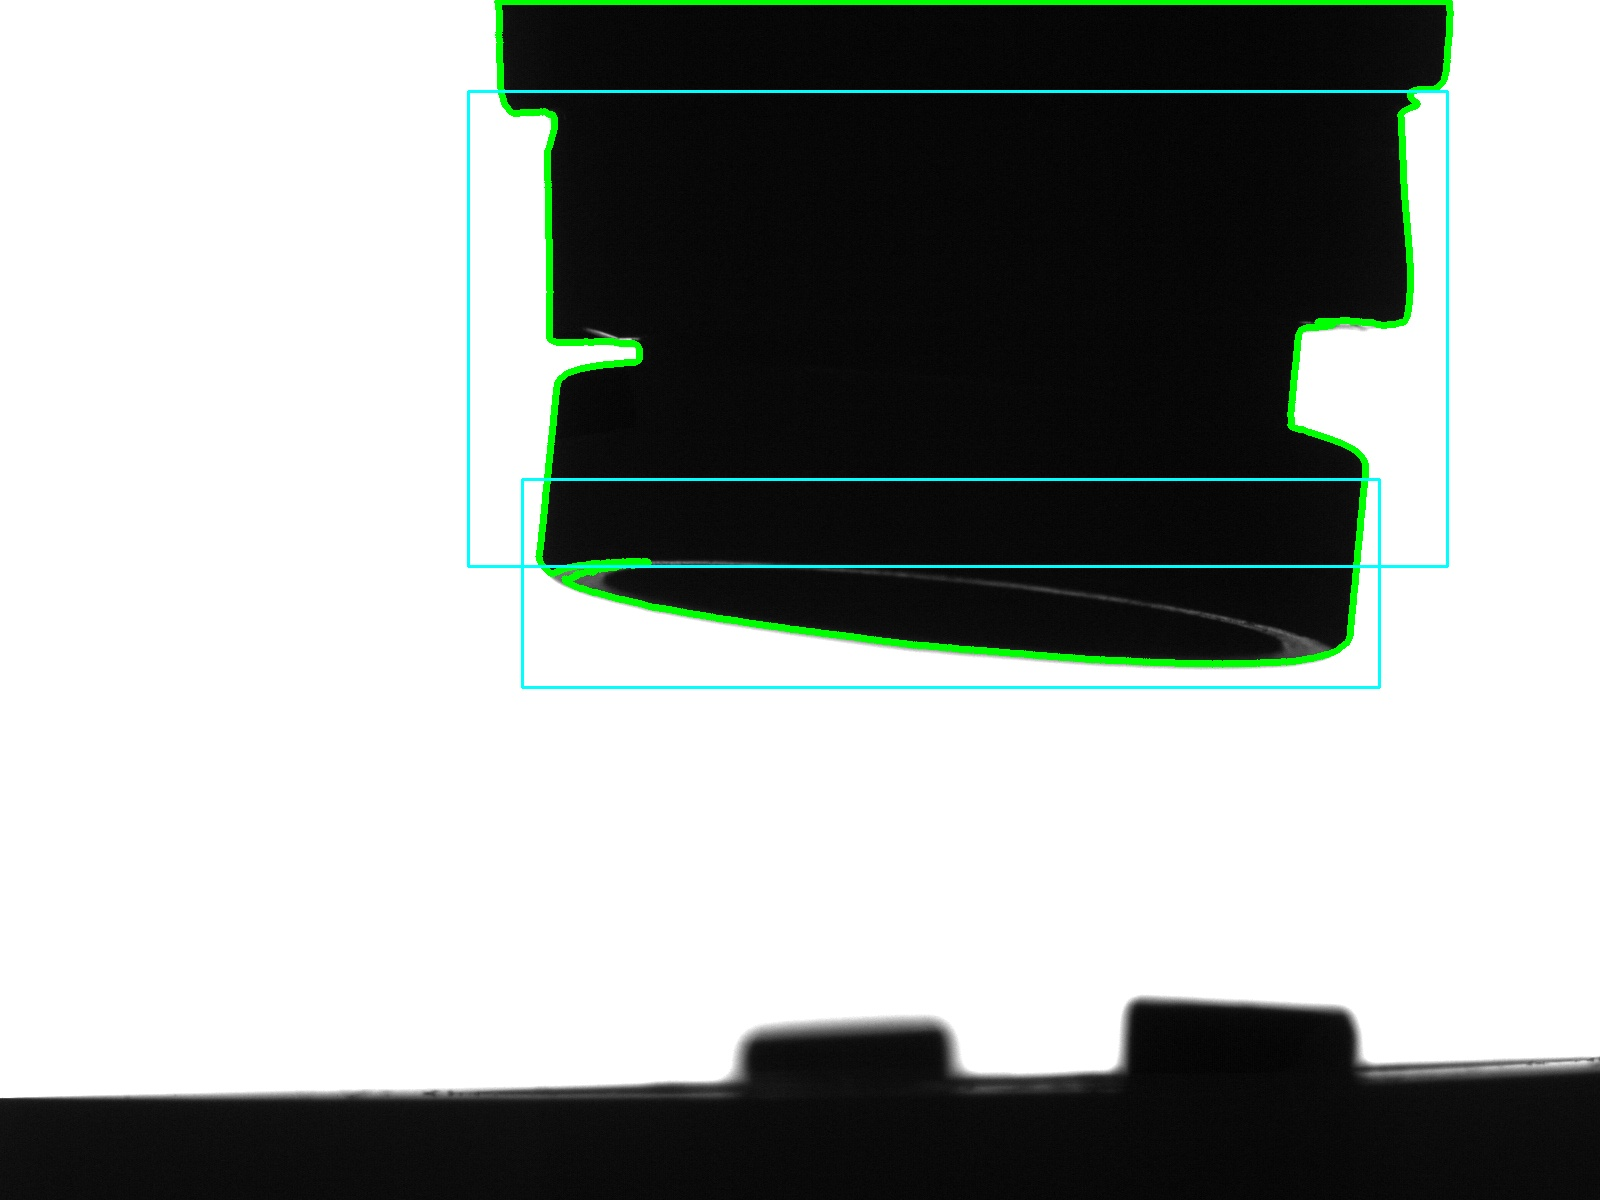
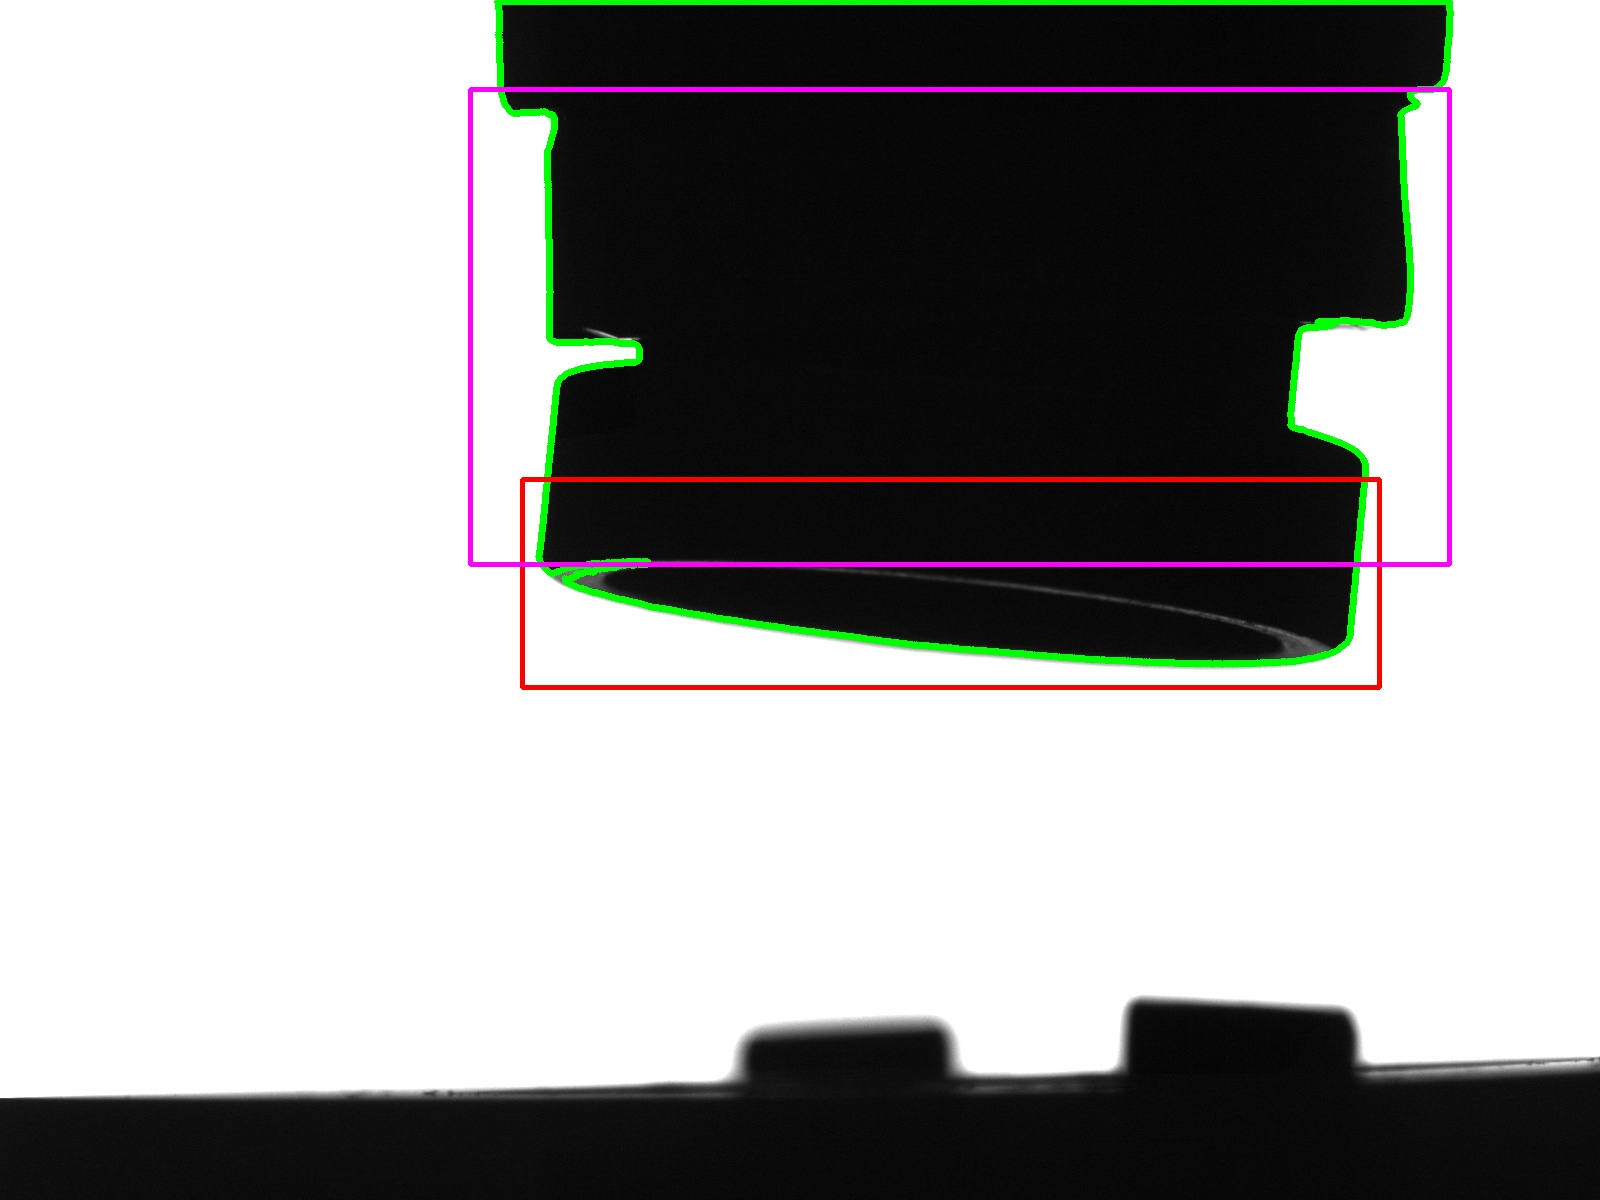
Update Files In Case Of Fire at 12:54:24 - 07/26/16

Changed region(s): [[0.2812, 0.0617, 0.9062, 0.5858], [0.3438, 0.37, 0.8438, 0.4008]]

diff --git a/AMX/RawImages/match19.py b/AMX/RawImages/match19.py
@@ -29,10 +29,10 @@ for i in range(1,19):
 	cvlib.drawContour(img, mount, thickness = 5)
 	#cvlib.drawContour(img, contours, thickness = 5, color=(255,255,0))
 	print "Image " + str(i) + " " + str(cvlib.matchShapes(contours, mount)) + " Sim"
-	img = cvlib.drawMatch(img, pin)
-	img = cvlib.drawMatch(img, gripper)
+	img = cvlib.drawMatch(img, pin, color=(0,0,255), thickness=4)
+	img = cvlib.drawMatch(img, gripper, color= (255,0,255), thickness =4)
         cvlib.save(img, "match/match%d.jpg" % i)
-	#cvlib.display(img)
+	cvlib.display(img)
 	#lst.append(img)
 
 #cvlib.displayImgs(lst)
